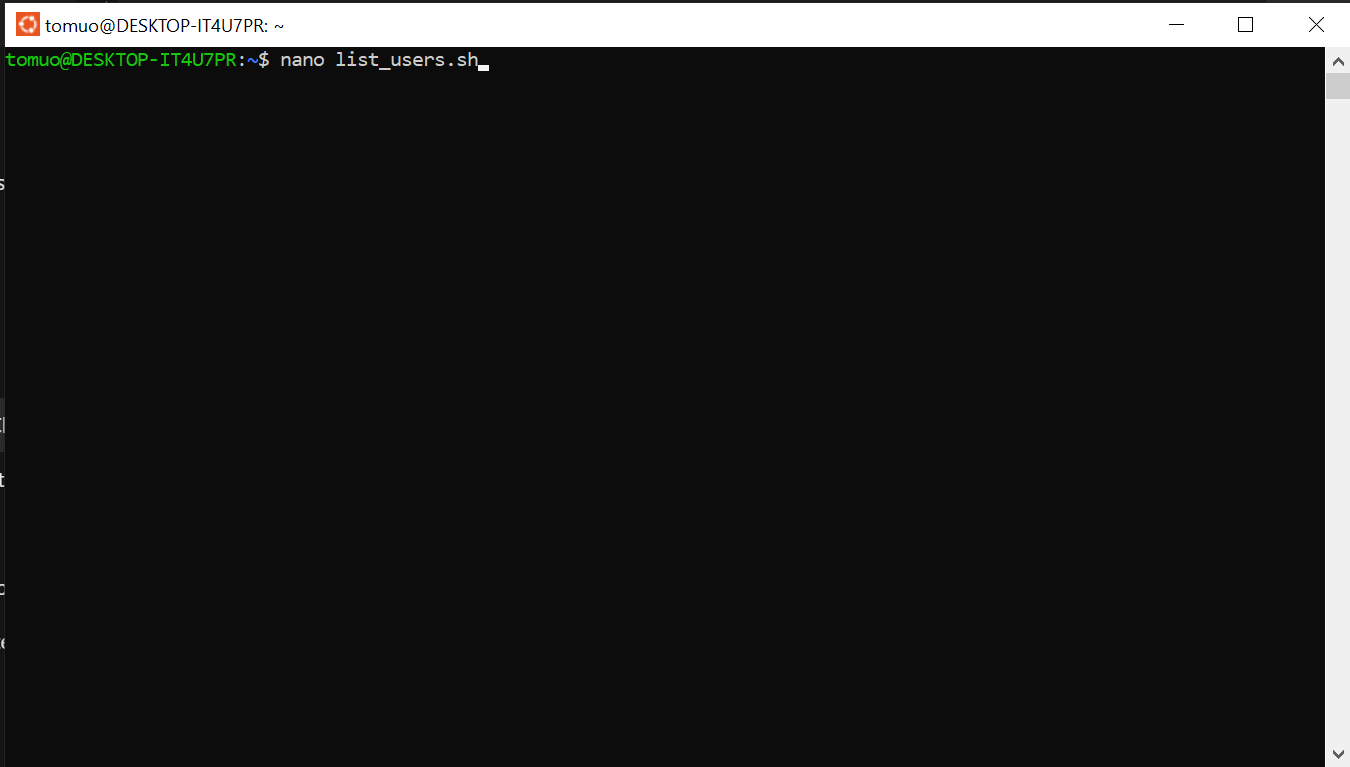
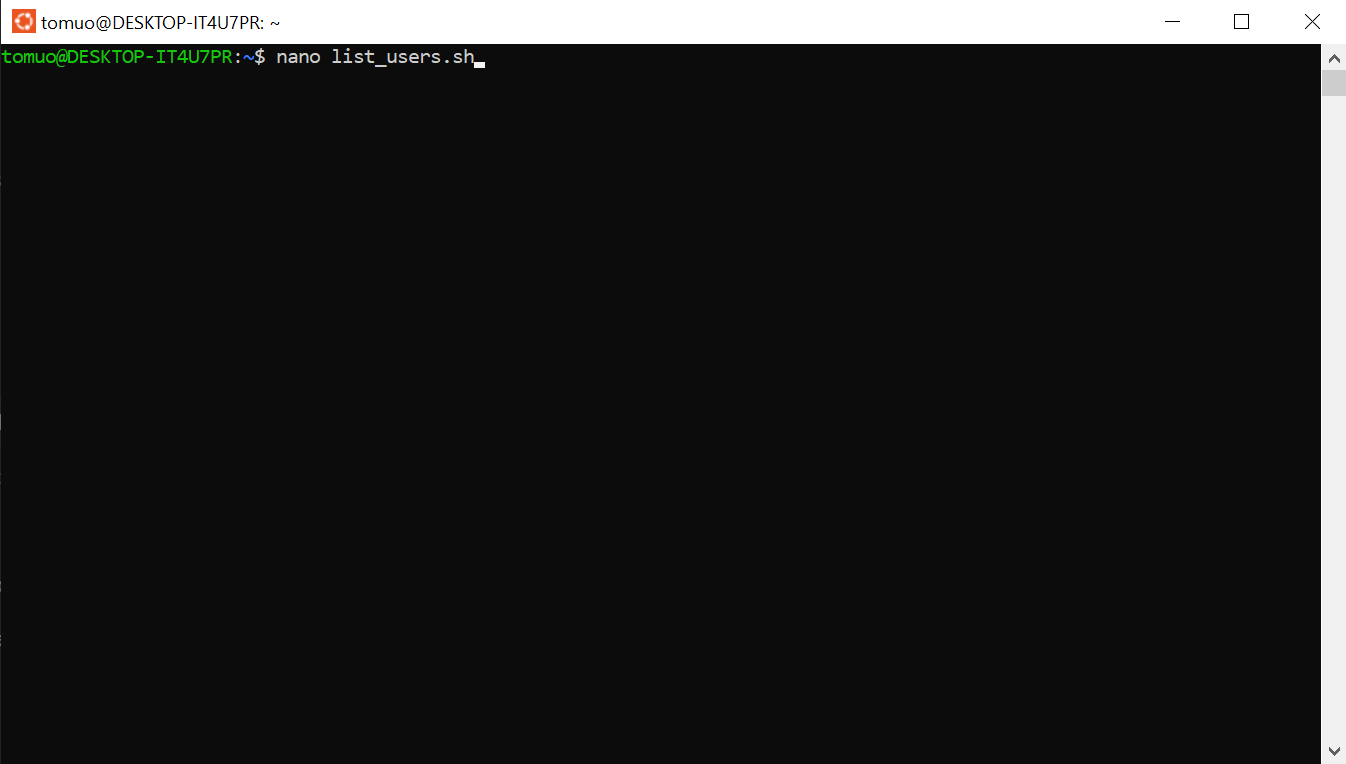
updated pictures sizes and looking into question 4

Changed region(s): [[0.0, 0.0, 1.0, 0.0903], [0.9985, 0.0903, 1.0, 0.1204], [0.0, 0.5419, 0.0312, 0.572]]

diff --git a/README.md b/README.md
@@ -27,11 +27,11 @@
 
    >nano list_users.sh
 
-![Opening nano](images/open_nano.png)
+![Opening nano](images/open_nano_s.png)
 
 >When Nano opens you will see it has it's own menu. 
 
-![Opening nano](images/nano_opened.png)
+![Opening nano](images/nano_opened_s.png)
 
 
 ---
@@ -45,7 +45,7 @@ Copy and paste or write this script into the nano
 awk -F: '{ print $1 ":" $6 }' /etc/passwd
 ```
 
-![Script in nano](images/script_written.png)
+![Script in nano](images/script_written_s.png)
 
 This will select the two fields we are interested in $1 _(name)_ and $6 _(directory)_.
 
@@ -65,7 +65,7 @@ In order to allow the script to run you need to make it executable. Otherwise yo
 ```
 chmod +x list_users.sh
 ```
-![Making executable](images/running_chmod.png)
+![Making executable](images/running_chmod_s.png)
 
 ---
 
@@ -76,15 +76,15 @@ now you can run the script and it should provide name and directories.
 ```
 ./list_users.sh
 ```
-![Script output](images/script_output.png)
+![Script output](images/script_output_s.png)
 ---
 
 
 # Question #2
 
-## We have sent you an image named `git_history.v3.png` showing a Git commit graph. What sequence of Git commands could have produced the commit graph depicted in the image?
+## _We have sent you an image named `git_history.v3.png` showing a Git commit graph. What sequence of Git commands could have produced the commit graph depicted in the image?_
 
-![Example of commit history](git_history.v3.png)
+![Example of commit history](images/git_history.v3_S.png)
 
 ---
 
@@ -138,16 +138,14 @@ git commit -m "fourth commit"
 
 # Question #3
 
-## Write a brief blog post for GitLab that explains what Git is and what it can do for you. (Note: This is just a scenario for you to demonstrate your written skills and ability to explain technical topics. We are not using these assessments for anything other than the recruitment process.).
+## _Write a brief blog post for GitLab that explains what Git is and what it can do for you. (Note: This is just a scenario for you to demonstrate your written skills and ability to explain technical topics. We are not using these assessments for anything other than the recruitment process)._
 
-![Title banner with Git logo, GitLab logo, and author Tom Burns-T](images/blog_banner.png)
-
-
+![Title banner with Git logo, GitLab logo, and author Tom Burns-T](images/blog_banner_s.png)
 
 
-Hey, I’m Tom 👋
 
-I’ve been asked to write a blog post for [GitLab](https://gitlab.com) about Git:  
+
+## Hey, I’m Tom 👋 I’ve been asked to write a blog post for [GitLab](https://gitlab.com) about Git:  
 **What is it? What does it actually do for you?**
 
 Git is a tool — specifically, something called version control. I remember the first time I heard that phrase. One vague explanation led to another, and I still wasn’t sure what it actually meant.
@@ -168,6 +166,8 @@ Git lets you:
 - Go back to earlier versions
 - Collaborate with others without stepping on each other’s toes
 
+![save point from ff7 and bookmarked books](images/save_point.png)
+
 Imagine a team working together on a piece of software. To keep things stable, they don’t all edit the same copy of the code. Instead, they each create a **branch** — a separate version of the project — to work on specific features.
 
 Once a feature is ready, they submit it for review. If everything looks good, it’s **merged** into the main branch — the stable version of the code.
@@ -176,9 +176,11 @@ Once a feature is ready, they submit it for review. If everything looks good, it
 
 ## Why It Matters
 
-Mistakes happen. That’s normal.
+Mistakes happen. That’s normal. This is all part of the learning process when it comes to working in a team. You will find that something may work on your machine that after pushing causes a merging error. Usually it's not a big issue and can be resolved at the point of merging. Other times it can be an something after the merge has taken place. Luckily your working with version control so you can revert or rewind the clock back to a working version and hopefully figure out what the bug was. 
 
-With Git, you can trace exactly what changed, when, and who did it. You can fix issues or roll back to a working version — without disrupting the whole team.
+![Rewind](images/rewind.png)
+
+With Git, you can trace exactly what changed, when, and who did it. You can fix issues or roll back to a working version — without disrupting the whole team. 
 
 ---
 
@@ -189,6 +191,8 @@ It gives you:
 - A safety net when things go wrong
 - A timeline of every step you and your team take
 
+![safety net image](images/safety_net.png)
+
 
 
 So when I say *Git is a version control tool*, I hope it now means something more useful than it did the first time you heard it.
@@ -197,7 +201,7 @@ So when I say *Git is a version control tool*, I hope it now means something mor
 ---
 # Question #4
 
-## Tell us about a recent issue you debugged or a problem you solved. How did you go about debugging it? What tools did you use? What was the outcome?
+## _Tell us about a recent issue you debugged or a problem you solved. How did you go about debugging it? What tools did you use? What was the outcome?_
 
 
 ## 🔗 References
